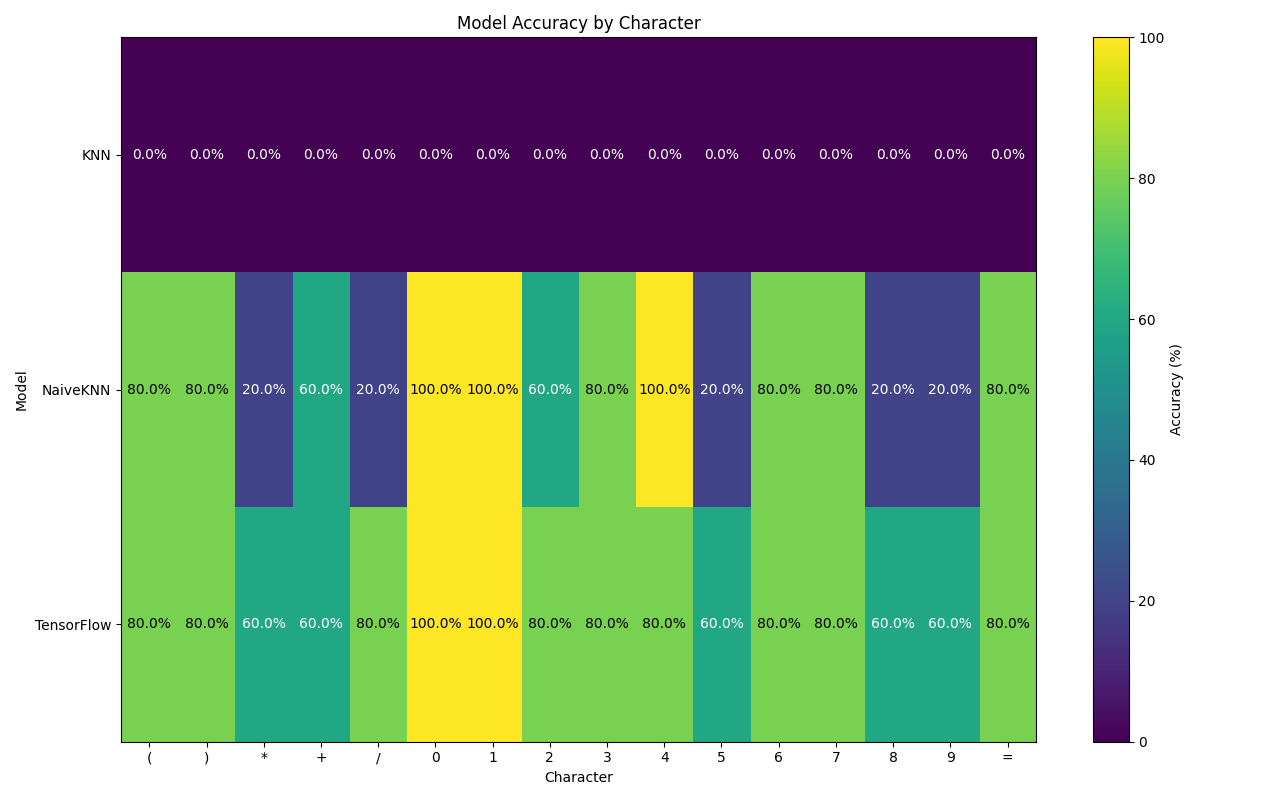
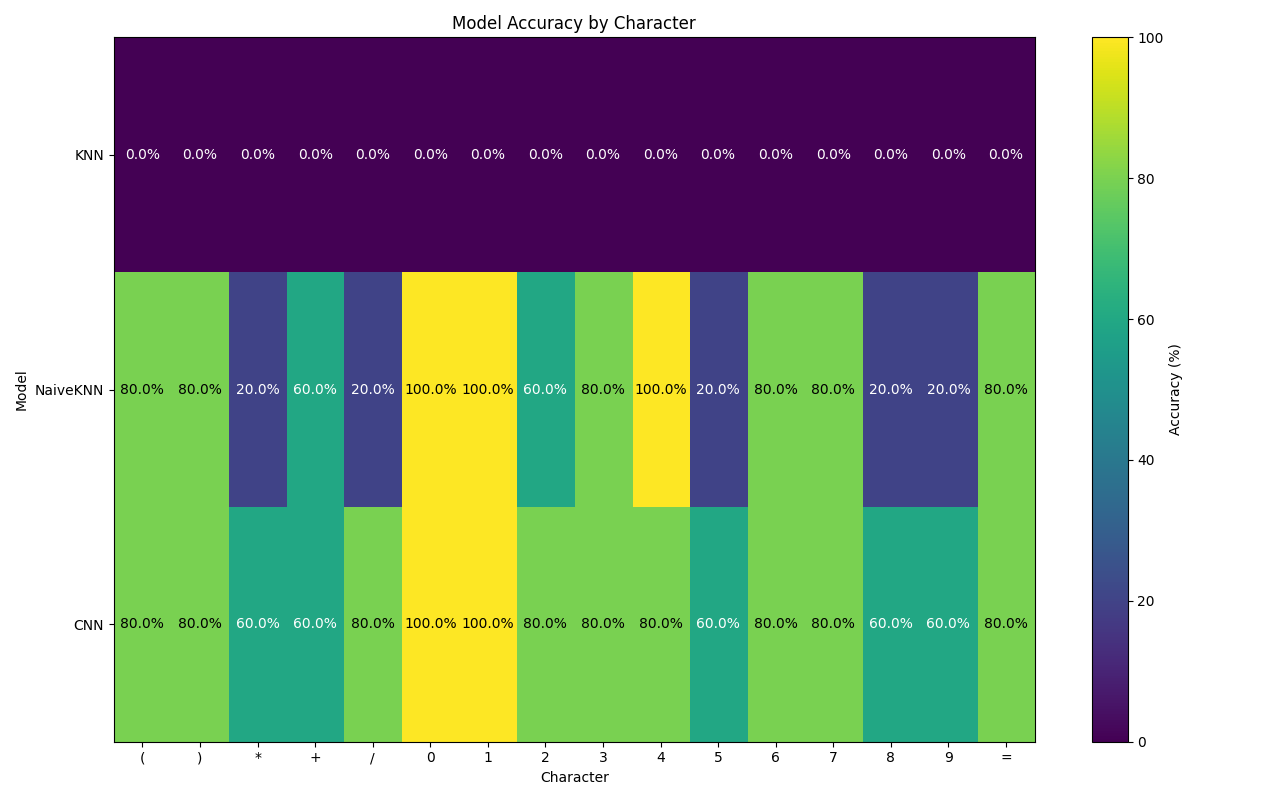
update images

diff --git a/compare_classifiers.py b/compare_classifiers.py
@@ -13,16 +13,6 @@ def evaluate_classifier(classifier, name, test_folder, expected_chars):
     """Evaluate a classifier and return its accuracy, per-character accuracy, and inference time."""
     print(f"\n{'-'*20} Evaluating {name} {'-'*20}")
 
-    # Train the model if needed
-    if hasattr(classifier, 'train_model'):
-        # For classifiers that need explicit training
-        if any(x in name for x in ['TensorFlow']):
-            # Models that need explicit training
-            classifier.train_model()
-        else:
-            # Other models might train in __init__, so we don't need to call train_model again
-            pass
-
     # Measure inference time and accuracy
     start_time = time.time()
 
@@ -63,7 +53,7 @@ def main():
     classifiers = [
         (KNN(), "KNN"),
         (NaiveKNN(), "NaiveKNN"),
-        (CNN(train=False), "TensorFlow")
+        (CNN(train=False), "CNN")
     ]
     results = []
     for classifier, name in classifiers:
